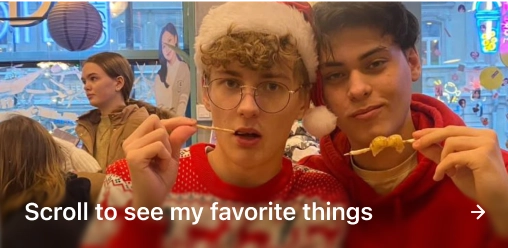
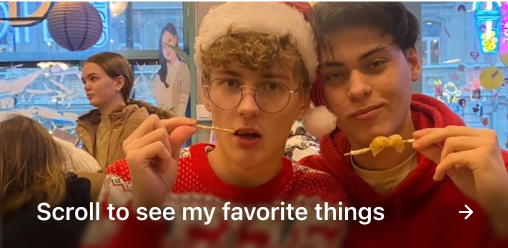
Add slider dots to FavoriteThingsCard

Changed region(s): [[0.0295, 0.7621, 1.0, 1.0]]

diff --git a/src/routes/me/FavoriteThingsCard.svelte b/src/routes/me/FavoriteThingsCard.svelte
@@ -1,5 +1,7 @@
 <script lang="ts">
+  import { transition } from '$lib/utils'
   import { getSvgPath } from 'figma-squircle'
+  import { onMount } from 'svelte'
 
   let width = $state(0)
   let height = $state(0)
@@ -14,69 +16,100 @@
   })
 
   const clipPathStyle = $derived(clipPath ? `clip-path: path('${clipPath}')` : undefined)
-  $effect(() => console.log(clipPathStyle))
+
+  const images = [
+    ['favorite-things', 'Scroll to see my favorite things ➜'],
+    ['games', 'I love puzzle platformers, survival horrors and adventure sandboxes'],
+    ['cinema', 'I love criminals, dramas and detectives'],
+    ['music', 'Pop is always in my playlist'],
+    ['dish', 'The best Tom Yum I tasted was in my  home city local bar'],
+    ['influencer', 'I admire Jerma985 unique personality and love watching his livestreams'],
+    ['book', 'Steve Krug — Don’t make me think is a must-read for all web designers'],
+    ['series', 'Severance is my favorite TV series'],
+    ['quote', 'My favorite quote is one of my own'],
+    ['love', 'But my most favorite thing in life is love']
+  ]
+
+  let scroll = $state(0)
+  let scrollContainer: HTMLDivElement
+  onMount(() => (scroll = scrollContainer.scrollLeft))
+  let cardInViewport = $derived(scroll / (width + 1))
 </script>
 
 <div
-  class="scrollbar-invisible col-span-2 row-span-1 flex snap-x snap-mandatory gap-px overflow-auto rounded-4xl text-white"
+  class="relative col-span-2 row-span-1 rounded-4xl text-white"
   bind:clientWidth={width}
   bind:clientHeight={height}
   style={clipPathStyle}
 >
-  {#snippet img(src: string, alt: string)}
-    <div class="animate-scroll aspect-[508/247] h-full w-auto shrink-0 snap-center overflow-clip">
-      <img
-        src="/favorite-things/{src}.webp"
-        {alt}
-        class="h-full w-full shrink-0 rounded-4xl object-cover"
-        style={clipPathStyle}
-      />
-    </div>
-  {/snippet}
-  {@render img('favorite-things', 'Scroll to see my favorite things ➜')}
-  {@render img('games', 'I love puzzle platformers, survival horrors and adventure sandboxes')}
-  {@render img('cinema', 'I love criminals, dramas and detectives')}
-  {@render img('music', 'Pop is always in my playlist')}
-  {@render img('dish', 'The best Tom Yum I tasted was in my  home city local bar')}
-  {@render img(
-    'influencer',
-    'I admire Jerma985 unique personality and love watching his livestreams'
-  )}
-  {@render img('book', 'Steve Krug — Don’t make me think is a must-read for all web designers')}
-  {@render img('series', 'Severance is my favorite TV series')}
-  {@render img('quote', 'My favorite quote is one of my own')}
-  {@render img('love', 'But my most favorite thing in life is love')}
+  <div
+    class="scrollbar-invisible absolute top-0 left-0 flex h-full w-full snap-x snap-mandatory gap-px overflow-auto"
+    bind:this={scrollContainer}
+    onscroll={() => (scroll = scrollContainer.scrollLeft)}
+  >
+    {#snippet img(src: string, alt: string)}
+      <div class="animate-scroll h-full w-full shrink-0 snap-center overflow-clip">
+        <img
+          src="/favorite-things/{src}.webp"
+          {alt}
+          class="h-full w-full shrink-0 rounded-4xl object-cover"
+          style={clipPathStyle}
+        />
+      </div>
+    {/snippet}
+    {#each images as [src, alt], i (i)}
+      {@render img(src, alt)}
+    {/each}
+  </div>
+  <div
+    class="absolute bottom-[5px] z-[1] flex h-[2px] w-full items-center justify-center gap-[2px]"
+  >
+    {#each images, i}
+      <span
+        class="h-[2px] w-[2px] rounded-full backdrop-blur-3xl"
+        style="background-color: rgba(246, 246, 246, {transition(
+          // 0.48,
+          // 0.72,
+          0,
+          1,
+          (1 - (i - cardInViewport))
+        )})"
+      ></span>
+    {/each}
+  </div>
 </div>
 
 <style lang="scss">
   .scrollbar-invisible {
     scrollbar-width: none;
   }
-  .animate-scroll {
-    animation-timeline: view(x);
-    view-timeline-name: --timeline_name;
-    view-timeline-axis: x;
-
-    img {
-      animation-timeline: --timeline_name;
+  @supports (animation-timeline: view(x)) {
+    .animate-scroll {
+      animation-timeline: view(x);
+      view-timeline-name: --timeline_name;
       view-timeline-axis: x;
-      animation-name: appear;
-      animation-direction: alternate;
-      animation-fill-mode: both;
-      animation-duration: 1ms;
-    }
-  }
-  @keyframes appear {
-    0% {
-      transform: scale(0);
-    }
 
-    50% {
-      transform: scale(1);
+      img {
+        animation-timeline: --timeline_name;
+        view-timeline-axis: x;
+        animation-name: appear;
+        animation-direction: alternate;
+        animation-fill-mode: both;
+        animation-duration: 1ms;
+      }
     }
+    @keyframes appear {
+      0% {
+        transform: scale(0.85);
+      }
 
-    100% {
-      transform: scale(0);
+      50% {
+        transform: scale(1);
+      }
+
+      100% {
+        transform: scale(0.85);
+      }
     }
   }
 </style>

diff --git a/src/app.css b/src/app.css
@@ -15,8 +15,10 @@ html {
   --color-thick-typography: #e5e5e5;
   --color-thin-typography: #7c7c7c;
   --color-thick: rgba(36, 36, 36, 0.35);
+  --color-thick-light: rgba(246, 246, 246, 0.72);
   --color-tooltip: rgba(50, 50, 50, 0.48);
   --color-thin: rgba(0, 0, 0, 0.1);
+  --color-thin-light: rgba(246, 246, 246, 0.48);
   --blur-thick: 128px;
   --blur-thin: 30px;
   --font-sf-pro:

diff --git a/src/lib/utils.ts b/src/lib/utils.ts
@@ -1,3 +1,6 @@
 export function isIos() {
   return /^((?!chrome|android).)*safari/i.test(navigator.userAgent)
 }
+
+export const transition = (clampStart: number, clampEnd: number, x: number) =>
+  clampStart + (clampEnd - clampStart) * Math.max(0, Math.min(x, 1))
